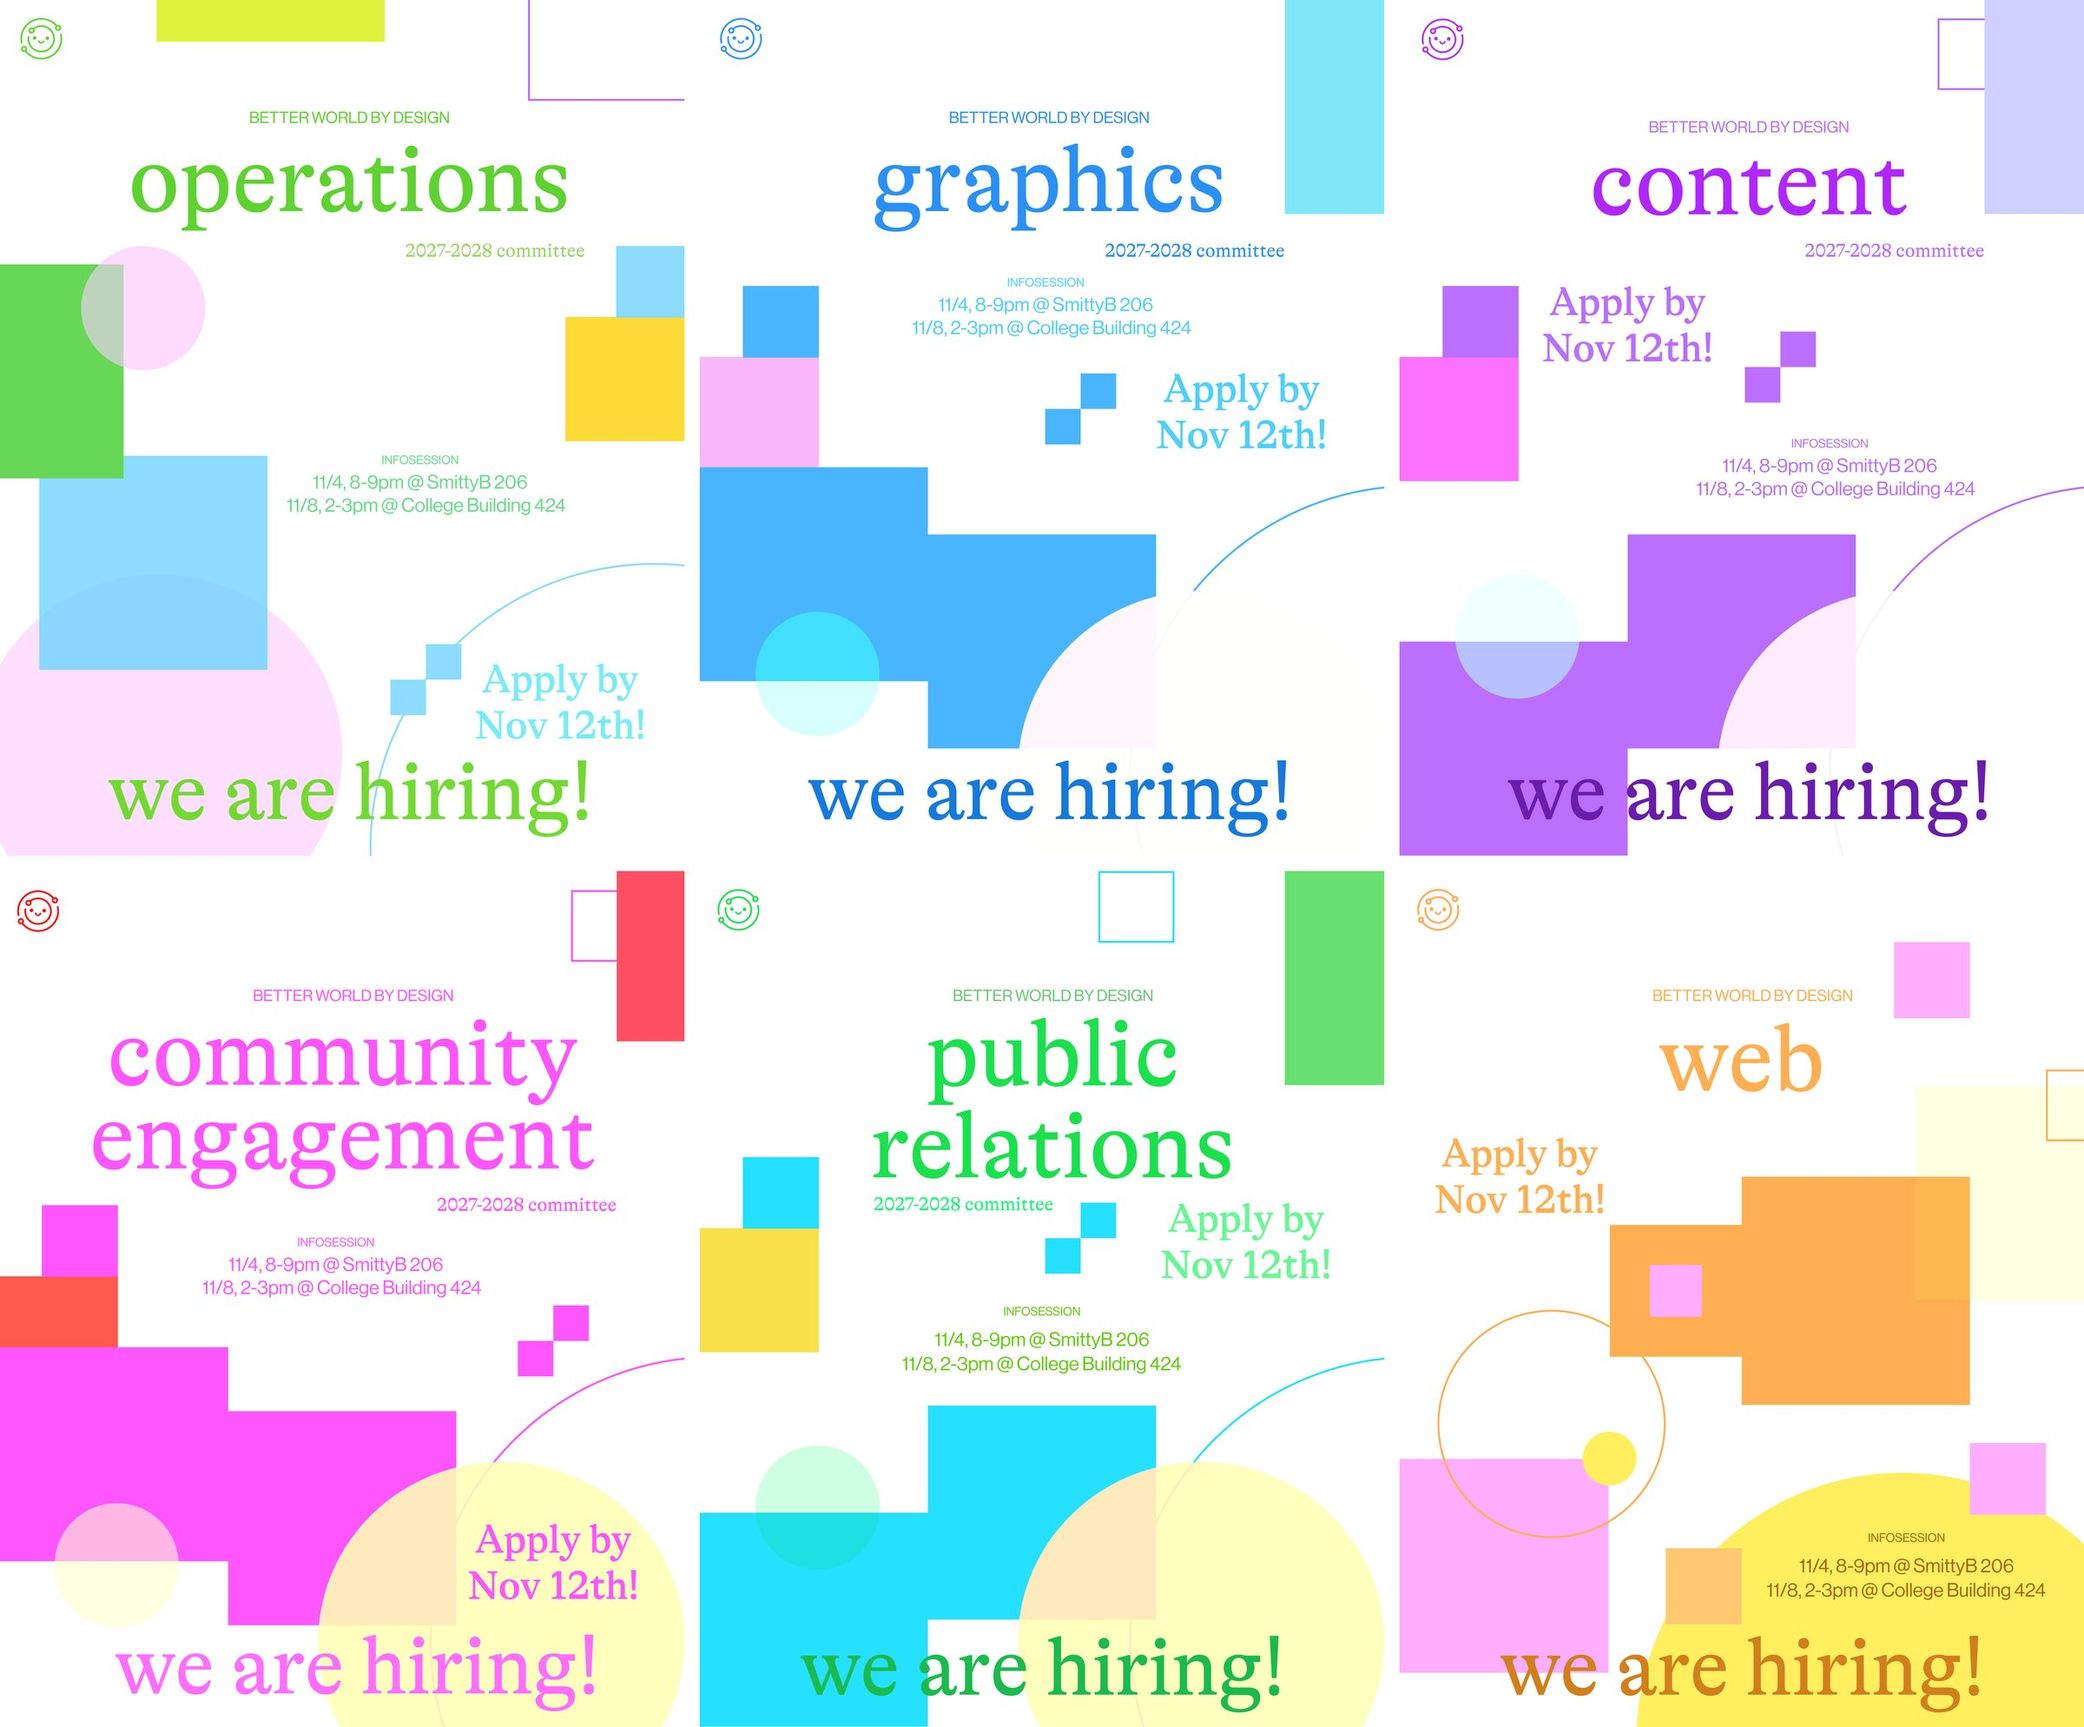
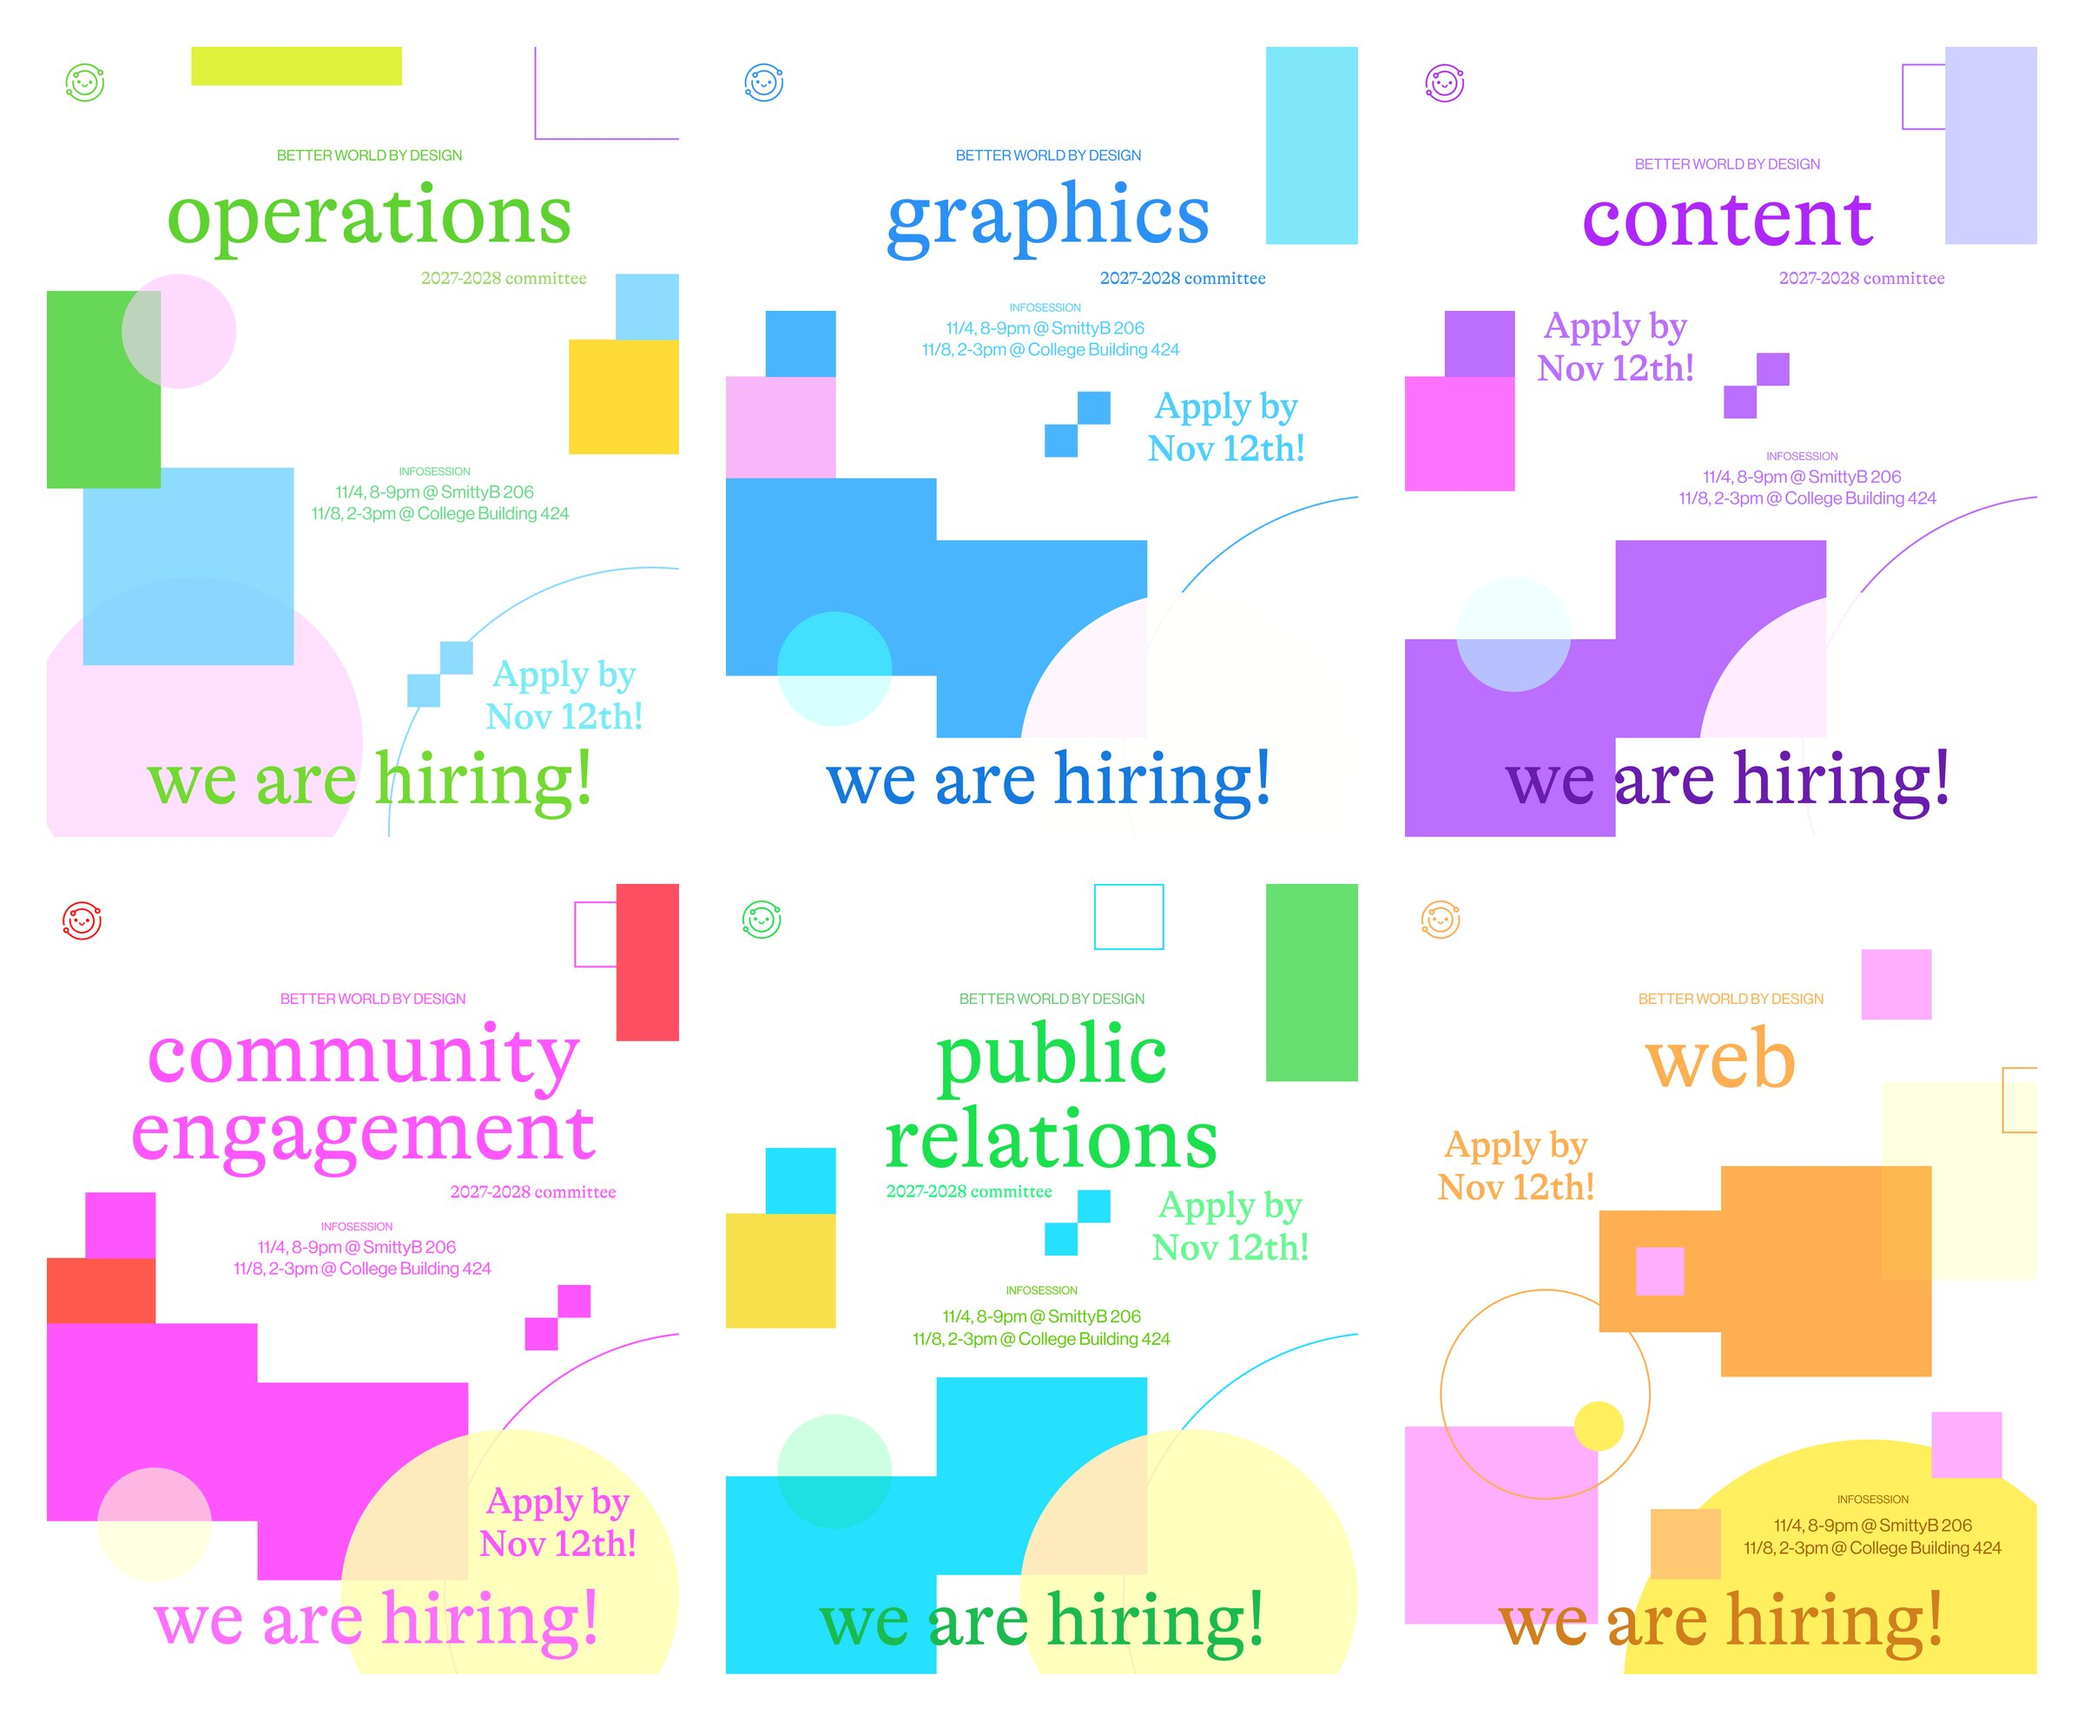
Roots: sponsorship kit as an auto-advancing slideshow with arrows; wider recruitment gutters

diff --git a/bwxd-roots.html b/bwxd-roots.html
@@ -10,7 +10,7 @@
 <link rel="icon" type="image/png" href="img/favicon.png?v=4">
 <link rel="apple-touch-icon" href="img/apple-touch-icon.png?v=4">
 <script type="speculationrules">{"prerender":[{"where":{"href_matches":"/*"},"eagerness":"moderate"}]}</script>
-<link rel="stylesheet" href="css/site.css?v=34">
+<link rel="stylesheet" href="css/site.css?v=35">
 </head>
 <body>
 <nav class="nav">
@@ -40,12 +40,23 @@
       <img class="shot" src="img/bwxd-laptop-web.jpg" alt="Roots website" loading="lazy" width="2400" height="1800" style="--r:1.3333">
       <img class="shot" src="img/bwxd-laptop-kit.jpg" alt="Roots sponsorship kit" loading="lazy" width="2400" height="1800" style="--r:1.3333">
     </div>
-    <div class="fit-row">
-      <img class="shot" src="img/bwxd-kit.jpg?v=2" alt="Sponsorship kit pages" loading="lazy" width="2400" height="904" style="--r:2.6549">
+    <div class="slideshow" data-slideshow aria-roledescription="carousel" aria-label="Roots sponsorship kit">
+      <div class="slides">
+        <img class="slide is-active" src="img/bwxd-kit-1.jpg" alt="Sponsorship kit, Executive Summary" loading="lazy" width="2240" height="1260">
+        <img class="slide" src="img/bwxd-kit-2.jpg" alt="Sponsorship kit, Who We Are" loading="lazy" width="2240" height="1260" aria-hidden="true">
+        <img class="slide" src="img/bwxd-kit-3.jpg" alt="Sponsorship kit, Our Theme: Roots" loading="lazy" width="2240" height="1260" aria-hidden="true">
+        <img class="slide" src="img/bwxd-kit-4.jpg" alt="Sponsorship kit, Why Should You Sponsor Us?" loading="lazy" width="2240" height="1260" aria-hidden="true">
+        <img class="slide" src="img/bwxd-kit-5.jpg" alt="Sponsorship kit, Our Past Sponsors" loading="lazy" width="2240" height="1260" aria-hidden="true">
+        <img class="slide" src="img/bwxd-kit-6.jpg" alt="Sponsorship kit, Thank you" loading="lazy" width="2240" height="1260" aria-hidden="true">
+      </div>
+      <div class="slide-bar">
+        <span class="small slide-count" aria-live="polite">1 / 6</span>
+        <div class="slide-arrows"><button class="slide-btn" type="button" data-dir="-1" aria-label="Previous slide">←</button><button class="slide-btn" type="button" data-dir="1" aria-label="Next slide">→</button></div>
+      </div>
     </div>
     <div class="fit-row">
       <img class="shot" src="img/bwxd-sticker.jpg" alt="Roots sticker sheet" loading="lazy" width="2400" height="1600" style="--r:1.5000">
-      <img class="shot bordered" src="img/bwxd-recruitment.jpg" alt="Recruitment posts for the 2027–28 committee" loading="lazy" width="2400" height="1988" style="--r:1.2072">
+      <img class="shot bordered" src="img/bwxd-recruitment.jpg?v=2" alt="Recruitment posts for the 2027–28 committee" loading="lazy" width="2400" height="1982" style="--r:1.2109">
     </div>
     </div>
     <div class="pager"><a class="body plain" href="maze.html">← MÆZE</a><a class="body plain" href="affix.html">AFFIX →</a></div>
@@ -63,6 +74,6 @@
     </div>
   </div>
 </footer>
-<script src="js/site.js?v=27"></script>
+<script src="js/site.js?v=28"></script>
 </body>
 </html>

diff --git a/js/site.js b/js/site.js
@@ -53,7 +53,7 @@
   // coming back (or reloading) returns to a page already seen: show it exactly as it was left
   var nav = performance.getEntriesByType && performance.getEntriesByType("navigation")[0];
   if (nav && (nav.type === "back_forward" || nav.type === "reload")) return;
-  var targets = document.querySelectorAll(".card, .shot, .poster-text, .video, .details, .process-head, .pager, .about, .list, .contact-form, .footer-in");
+  var targets = document.querySelectorAll(".card, .shot, .slideshow, .poster-text, .video, .details, .process-head, .pager, .about, .list, .contact-form, .footer-in");
   var viewport = window.innerHeight || document.documentElement.clientHeight;
   if (!viewport) return; // page not laid out yet (hidden tab): show everything
   var observer = new IntersectionObserver(function (entries) {
@@ -239,4 +239,49 @@
   window.addEventListener("load", fit);
   var timer = 0;
   window.addEventListener("resize", function () { window.clearTimeout(timer); timer = window.setTimeout(fit, 150); });
+})();
+
+// Slideshow: advances on its own at a reading pace; an arrow click takes over,
+// and it picks up again after 15 seconds without a click.
+(function () {
+  Array.prototype.forEach.call(document.querySelectorAll("[data-slideshow]"), function (root) {
+    var slides = root.querySelectorAll(".slide");
+    var count = root.querySelector(".slide-count");
+    var n = slides.length, i = 0, timer = null, idle = null, visible = false, manual = false;
+    var PACE = 6000, RESUME = 15000;
+    if (n < 2) return;
+    function show(k) {
+      slides[i].classList.remove("is-active"); slides[i].setAttribute("aria-hidden", "true");
+      i = (k + n) % n;
+      slides[i].classList.add("is-active"); slides[i].removeAttribute("aria-hidden");
+      if (count) count.textContent = (i + 1) + " / " + n;
+    }
+    function stop() { clearInterval(timer); timer = null; }
+    function play() {
+      stop();
+      if (manual || !visible || document.hidden) return;
+      timer = setInterval(function () { show(i + 1); }, PACE);
+    }
+    function step(d) {
+      show(i + d);
+      manual = true; stop();
+      clearTimeout(idle);
+      idle = setTimeout(function () { manual = false; play(); }, RESUME);
+    }
+    Array.prototype.forEach.call(root.querySelectorAll(".slide-btn"), function (b) {
+      b.addEventListener("click", function () { step(+b.getAttribute("data-dir")); });
+    });
+    var x0 = null;
+    var box = root.querySelector(".slides");
+    box.addEventListener("touchstart", function (e) { x0 = e.touches[0].clientX; }, { passive: true });
+    box.addEventListener("touchend", function (e) {
+      if (x0 === null) return;
+      var dx = e.changedTouches[0].clientX - x0; x0 = null;
+      if (Math.abs(dx) > 40) step(dx < 0 ? 1 : -1);
+    });
+    if ("IntersectionObserver" in window) {
+      new IntersectionObserver(function (es) { visible = es[0].isIntersecting; play(); }, { threshold: 0.4 }).observe(root);
+    } else { visible = true; play(); }
+    document.addEventListener("visibilitychange", play);
+  });
 })();

diff --git a/css/site.css b/css/site.css
@@ -343,3 +343,14 @@ p, h1, h2, .tag, .label { hyphens: manual; overflow-wrap: break-word; }
   .fit-row > .shot { flex: none; width: 100%; }
 }
 .desc-col .credit { margin-top: -8px; }
+
+/* slideshow: one slide at a time, cross-fade */
+.slideshow { width: 100%; }
+.slides { position: relative; aspect-ratio: 16 / 9; border: 1px solid var(--line); border-radius: 2px; overflow: hidden; background: rgb(252, 249, 242); touch-action: pan-y; }
+.slide { position: absolute; inset: 0; width: 100%; height: 100%; object-fit: cover; opacity: 0; transition: opacity 0.7s cubic-bezier(0.44, 0, 0.56, 1); }
+.slide.is-active { opacity: 1; }
+.slide-bar { display: flex; justify-content: space-between; align-items: center; padding-top: 12px; }
+.slide-arrows { display: flex; gap: 4px; margin-right: -8px; }
+.slide-btn { font-family: inherit; font-size: 16px; line-height: 1.5; color: var(--text); background: none; border: 0; padding: 2px 8px; cursor: pointer; transition: color 0.2s cubic-bezier(0.44, 0, 0.56, 1); }
+.slide-btn:hover { color: var(--muted); }
+@media (prefers-reduced-motion: reduce) { .slide { transition: none; } }

diff --git a/affix.html b/affix.html
@@ -10,7 +10,7 @@
 <link rel="icon" type="image/png" href="img/favicon.png?v=4">
 <link rel="apple-touch-icon" href="img/apple-touch-icon.png?v=4">
 <script type="speculationrules">{"prerender":[{"where":{"href_matches":"/*"},"eagerness":"moderate"}]}</script>
-<link rel="stylesheet" href="css/site.css?v=34">
+<link rel="stylesheet" href="css/site.css?v=35">
 </head>
 <body>
 <nav class="nav">
@@ -66,6 +66,6 @@
     </div>
   </div>
 </footer>
-<script src="js/site.js?v=27"></script>
+<script src="js/site.js?v=28"></script>
 </body>
 </html>

diff --git a/buttons.html b/buttons.html
@@ -10,7 +10,7 @@
 <link rel="icon" type="image/png" href="img/favicon.png?v=4">
 <link rel="apple-touch-icon" href="img/apple-touch-icon.png?v=4">
 <script type="speculationrules">{"prerender":[{"where":{"href_matches":"/*"},"eagerness":"moderate"}]}</script>
-<link rel="stylesheet" href="css/site.css?v=34">
+<link rel="stylesheet" href="css/site.css?v=35">
 </head>
 <body>
 <nav class="nav">
@@ -45,6 +45,6 @@
     </div>
   </div>
 </footer>
-<script src="js/site.js?v=27"></script>
+<script src="js/site.js?v=28"></script>
 </body>
 </html>

diff --git a/contact.html b/contact.html
@@ -10,7 +10,7 @@
 <link rel="icon" type="image/png" href="img/favicon.png?v=4">
 <link rel="apple-touch-icon" href="img/apple-touch-icon.png?v=4">
 <script type="speculationrules">{"prerender":[{"where":{"href_matches":"/*"},"eagerness":"moderate"}]}</script>
-<link rel="stylesheet" href="css/site.css?v=34">
+<link rel="stylesheet" href="css/site.css?v=35">
 </head>
 <body>
 <nav class="nav">
@@ -58,6 +58,6 @@
     </div>
   </div>
 </footer>
-<script src="js/site.js?v=27"></script>
+<script src="js/site.js?v=28"></script>
 </body>
 </html>

diff --git a/focus.html b/focus.html
@@ -10,7 +10,7 @@
 <link rel="icon" type="image/png" href="img/favicon.png?v=4">
 <link rel="apple-touch-icon" href="img/apple-touch-icon.png?v=4">
 <script type="speculationrules">{"prerender":[{"where":{"href_matches":"/*"},"eagerness":"moderate"}]}</script>
-<link rel="stylesheet" href="css/site.css?v=34">
+<link rel="stylesheet" href="css/site.css?v=35">
 </head>
 <body>
 <nav class="nav">
@@ -49,6 +49,6 @@
     </div>
   </div>
 </footer>
-<script src="js/site.js?v=27"></script>
+<script src="js/site.js?v=28"></script>
 </body>
 </html>

diff --git a/freshly.html b/freshly.html
@@ -10,7 +10,7 @@
 <link rel="icon" type="image/png" href="img/favicon.png?v=4">
 <link rel="apple-touch-icon" href="img/apple-touch-icon.png?v=4">
 <script type="speculationrules">{"prerender":[{"where":{"href_matches":"/*"},"eagerness":"moderate"}]}</script>
-<link rel="stylesheet" href="css/site.css?v=34">
+<link rel="stylesheet" href="css/site.css?v=35">
 </head>
 <body>
 <nav class="nav">
@@ -58,6 +58,6 @@
     </div>
   </div>
 </footer>
-<script src="js/site.js?v=27"></script>
+<script src="js/site.js?v=28"></script>
 </body>
 </html>

diff --git a/index.html b/index.html
@@ -10,7 +10,7 @@
 <link rel="icon" type="image/png" href="img/favicon.png?v=4">
 <link rel="apple-touch-icon" href="img/apple-touch-icon.png?v=4">
 <script type="speculationrules">{"prerender":[{"where":{"href_matches":"/*"},"eagerness":"moderate"}]}</script>
-<link rel="stylesheet" href="css/site.css?v=34">
+<link rel="stylesheet" href="css/site.css?v=35">
 </head>
 <body>
 <nav class="nav">
@@ -82,6 +82,6 @@
     </div>
   </div>
 </footer>
-<script src="js/site.js?v=27"></script>
+<script src="js/site.js?v=28"></script>
 </body>
 </html>

diff --git a/information.html b/information.html
@@ -10,7 +10,7 @@
 <link rel="icon" type="image/png" href="img/favicon.png?v=4">
 <link rel="apple-touch-icon" href="img/apple-touch-icon.png?v=4">
 <script type="speculationrules">{"prerender":[{"where":{"href_matches":"/*"},"eagerness":"moderate"}]}</script>
-<link rel="stylesheet" href="css/site.css?v=34">
+<link rel="stylesheet" href="css/site.css?v=35">
 </head>
 <body>
 <nav class="nav">
@@ -58,6 +58,6 @@
     </div>
   </div>
 </footer>
-<script src="js/site.js?v=27"></script>
+<script src="js/site.js?v=28"></script>
 </body>
 </html>

diff --git a/maze.html b/maze.html
@@ -10,7 +10,7 @@
 <link rel="icon" type="image/png" href="img/favicon.png?v=4">
 <link rel="apple-touch-icon" href="img/apple-touch-icon.png?v=4">
 <script type="speculationrules">{"prerender":[{"where":{"href_matches":"/*"},"eagerness":"moderate"}]}</script>
-<link rel="stylesheet" href="css/site.css?v=34">
+<link rel="stylesheet" href="css/site.css?v=35">
 </head>
 <body>
 <nav class="nav">
@@ -54,6 +54,6 @@
     </div>
   </div>
 </footer>
-<script src="js/site.js?v=27"></script>
+<script src="js/site.js?v=28"></script>
 </body>
 </html>

diff --git a/seashell.html b/seashell.html
@@ -10,7 +10,7 @@
 <link rel="icon" type="image/png" href="img/favicon.png?v=4">
 <link rel="apple-touch-icon" href="img/apple-touch-icon.png?v=4">
 <script type="speculationrules">{"prerender":[{"where":{"href_matches":"/*"},"eagerness":"moderate"}]}</script>
-<link rel="stylesheet" href="css/site.css?v=34">
+<link rel="stylesheet" href="css/site.css?v=35">
 </head>
 <body>
 <nav class="nav">
@@ -46,6 +46,6 @@
     </div>
   </div>
 </footer>
-<script src="js/site.js?v=27"></script>
+<script src="js/site.js?v=28"></script>
 </body>
 </html>
